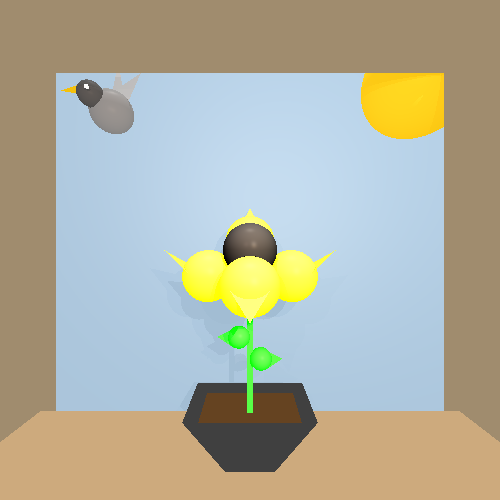
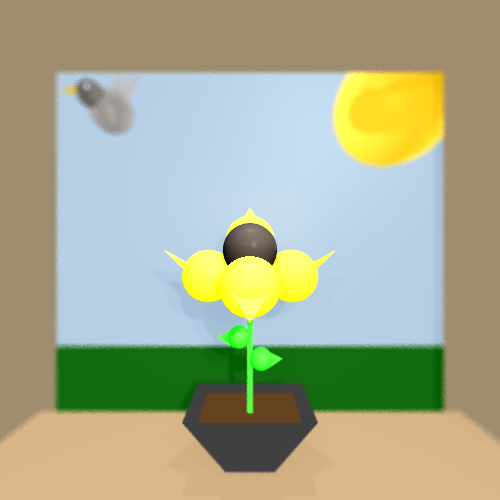
Fixing95

diff --git a/unittests/renderer/Mp2Tests.java b/unittests/renderer/Mp2Tests.java
@@ -110,7 +110,7 @@ class Mp2Tests {
                     new Point(24, -20, -29),
                     new Point(24, 22, -29))
                     .setEmission(new Color( 0,0,0))
-                    .setMaterial(new Material().setKd(0.1).setKs(0.2).setShininess(3).setKt(0.9)),
+                    .setMaterial(new Material().setKd(0.2).setKs(0.2).setShininess(20).setKt(0.9)),
             //The Top of the window
             new Polygon(new Point(-32, 22, -29),
                     new Point(32, 22, -29),
@@ -140,7 +140,8 @@ class Mp2Tests {
                     new Point(26, -20, 5),
                     new Point(26, -20, -29),
                     new Point(-26, -20, -29))
-                    .setEmission(new Color(205, 170, 125)),
+                    .setEmission(new Color(205, 170, 125))
+                    .setMaterial(new Material().setKd(0.1).setKs(0.2).setShininess(30)),
 
             //The flower
             //Up-Yellow
@@ -205,10 +206,26 @@ class Mp2Tests {
                     .setEmission(new Color(192, 192, 192))
                     .setMaterial(new Material().setKd(0.2).setKs(0.3).setShininess(40)),
             //The sun
-            new Sphere( 8,new Point(26, 26, -37))
+            new Sphere( 10,new Point(26, 26, -44))
                     .setEmission(new Color(java.awt.Color.ORANGE))
-                    .setMaterial(new Material().setKd(0.8).setKs(0.2).setShininess(30))
+                    .setMaterial(new Material().setKd(0.8).setKs(0.8).setShininess(30)),
             //The field
+            new Polygon( new Point(-40, -15, -37),
+                    new Point(40, -15, -37),
+                    new Point(40, -40, -37),
+                    new Point(-40, -40, -37))
+                    .setEmission(new Color(0, 100, 0)),
+            //The wall
+            new Polygon( new Point(30, 50, -29),
+                    new Point(30, 50, -5),
+                    new Point(30, -40, -5),
+                    new Point(30, -40, -29))
+                    .setEmission(new Color(160, 140, 110)),
+            new Polygon( new Point(-30, 50, -29),
+                    new Point(-30, 50, -5),
+                    new Point(-30, -40, -5),
+                    new Point(-30, -40, -29))
+                    .setEmission(new Color(160, 140, 110))
 
     );
 
@@ -221,8 +238,11 @@ class Mp2Tests {
                     new SpotLight(new Color(160, 125, 80), new Point(8, 8, 6), new Vector(-1, -1, -2))
                             .setKl(0.012).setKq(0.0015),
                     new DirectionalLight(new Color(70, 70, 70), new Vector(-0.3, -0.5, -1)),
-                    new DirectionalLight(new Color(70, 70, 70), new Vector(0, -1, 0))
-            ));
+                    new DirectionalLight(new Color(70, 70, 70), new Vector(0, -1, 0)),
+                    new DirectionalLight(new Color(70, 70, 70), new Vector(-1, 0, 1)),
+                    new DirectionalLight(new Color(70, 70, 70), new Vector(-1, 0, 0)),
+                    new DirectionalLight(new Color(70, 70, 70), new Vector(1, 0, 0))
+                    ));
 
 
     /**
@@ -243,6 +263,9 @@ class Mp2Tests {
                 .setVpDistance(10)
                 .setResolution(500,500)
                 .setRayTracer(scene, RayTracerType.SIMPLE)
+                .setDofRays(50)
+                .setAperture(0.5)
+                .setFocalDistance(21)
                 .build();
         cam1.renderImage().writeToImage("FinalPicture1");
     }
